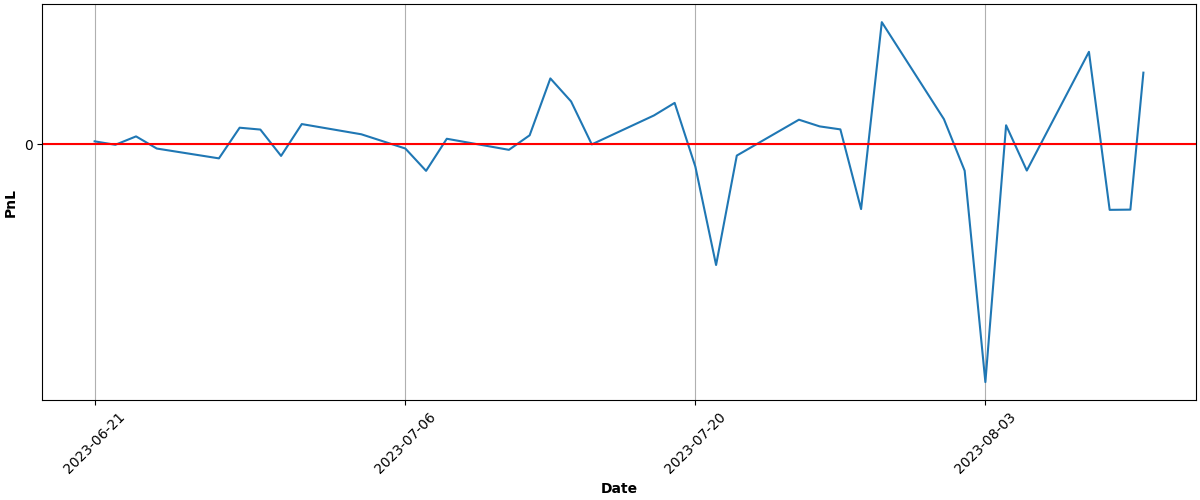
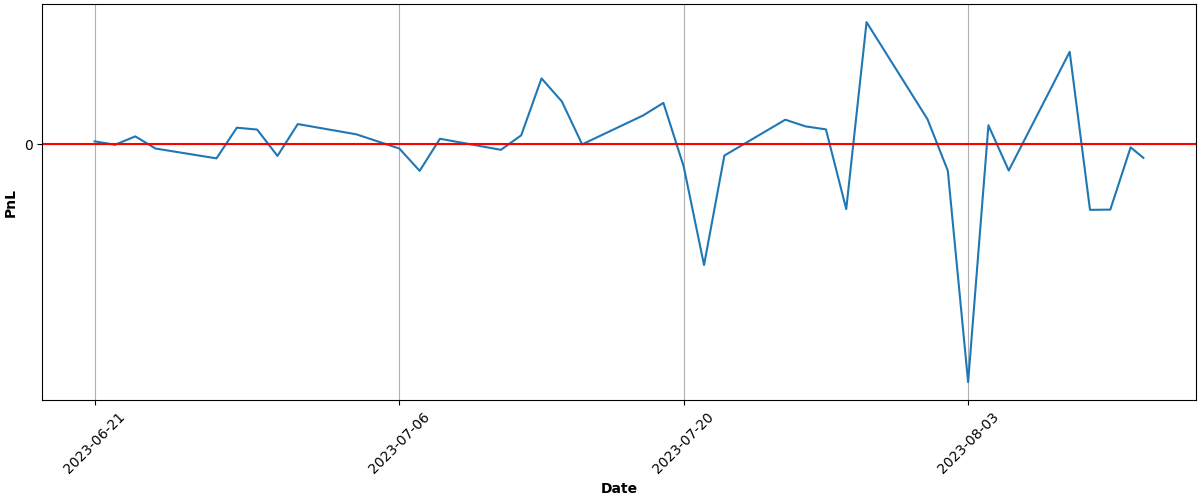
Automated Buy At Fri Aug 11 15:04:46 UTC 2023 Run ID 5834096777

diff --git a/README.md b/README.md
@@ -68,9 +68,9 @@ Results
 
 | Asset | Average Price | Current Price | ROI | 📈 |
 | --- | --- | --- | --- | --- |
-| FNGU | $189.683781462 | $176.8437 | -6.77% | &#128308;&#128546; |
-| SVIX | $27.6743625 | $28.24 | 2.04% | &#128994;&#128515; |
-| **Total** |  |  | **-2.03%** | &#128308;&#128557; |
+| FNGU | $189.046381246 | $167.6 | -11.34% | &#128308;&#128546; |
+| SVIX | $27.6743625 | $27.78 | 0.38% | &#128994;&#128515; |
+| **Total** |  |  | **-5.11%** | &#128308;&#128557; |
 
 ### PnL over time (calculations may not be accurate):
 
@@ -81,6 +81,6 @@ Results
 ---
 
 
-Updated at 2023-08-10 15:04:51
+Updated at 2023-08-11 15:05:13
 
 
